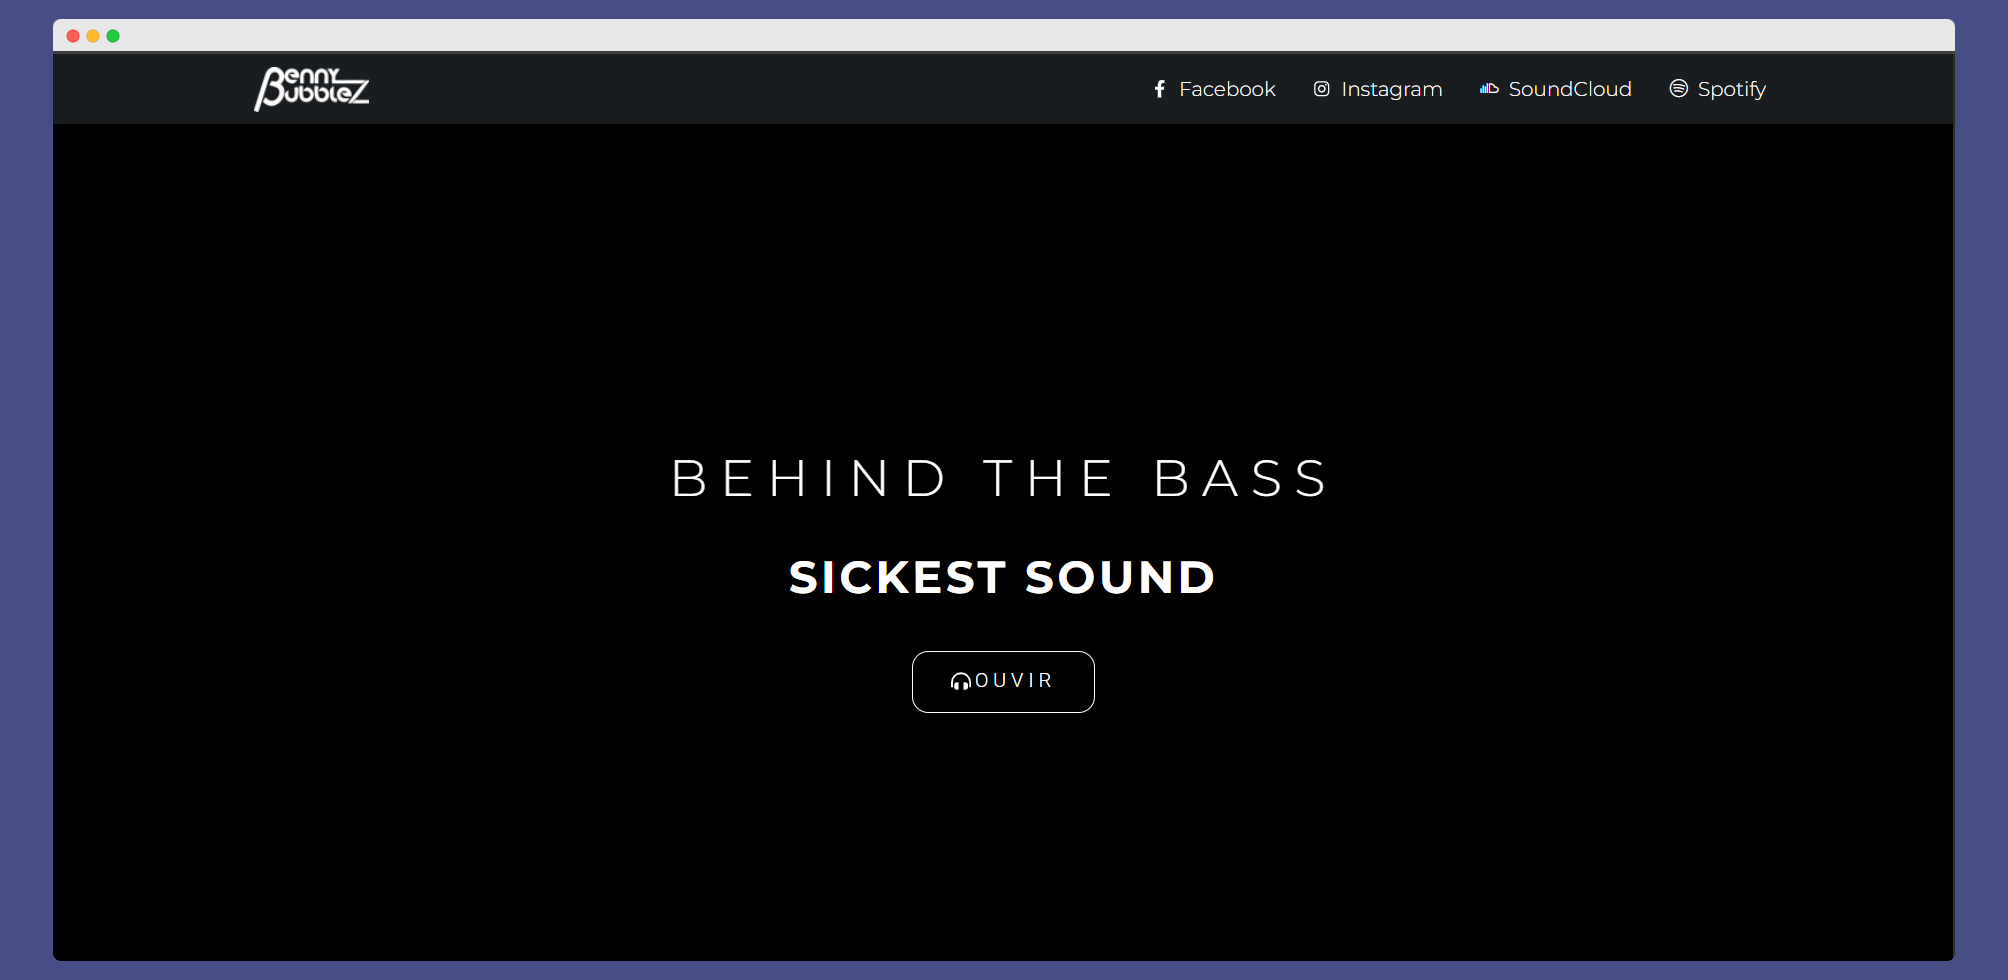
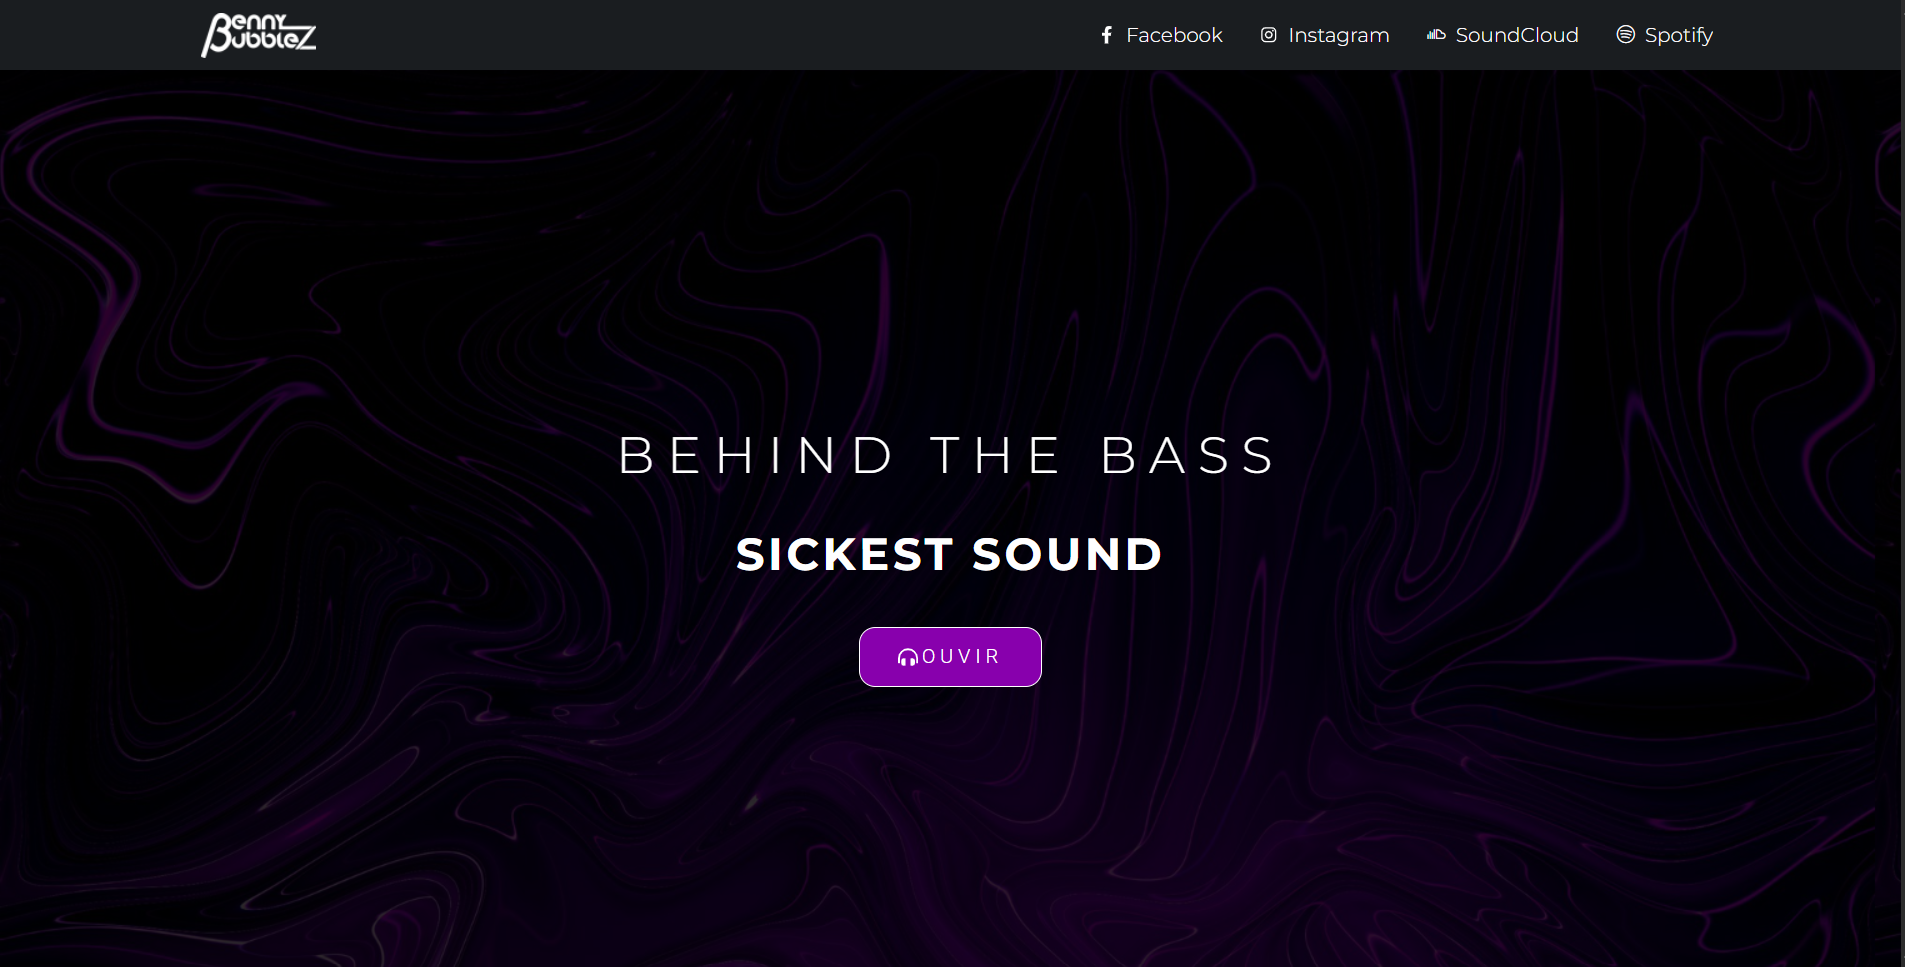
feat: enhance Projects section with carousel navigation and improved layout

diff --git a/src/components/sections/Projects.jsx b/src/components/sections/Projects.jsx
@@ -1,5 +1,5 @@
-import React, { useState } from 'react';
-import { Briefcase, Globe, Monitor, Smartphone, LayoutGrid, ArrowUpRight } from 'lucide-react';
+import React, { useState, useEffect } from 'react';
+import { Briefcase, Globe, Monitor, Smartphone, LayoutGrid, ArrowUpRight, ChevronLeft, ChevronRight } from 'lucide-react';
 import FadeIn from '../animations/FadeIn';
 import { useTranslation } from '../../contexts/LanguageContext';
 
@@ -87,65 +87,40 @@ const projects = [
     },
 ];
 
-const ProjectCard = ({ project, viewLabel, description }) => (
-    <div className="group flex flex-col bg-white border border-gray-200 rounded-2xl overflow-hidden hover:border-primary/40 hover:shadow-lg transition-all duration-300 shadow-sm">
-        <div className="relative h-52 overflow-hidden">
-            <img
-                src={project.image}
-                alt={project.title}
-                className="w-full h-full object-cover transition-transform duration-500 group-hover:scale-105"
-            />
-            <div className="absolute inset-0 bg-linear-to-t from-black/60 to-transparent" />
-            <span className="absolute top-3 left-3 text-xs bg-black/50 text-white/80 border border-white/20 px-2.5 py-1 rounded-full backdrop-blur-sm">
-                {project.category}
-            </span>
-        </div>
-
-        <div className="flex flex-col gap-3 p-5 flex-1">
-            <h3 className="text-lg font-semibold text-gray-900 group-hover:text-primary transition-colors duration-300">
-                {project.title}
-            </h3>
-
-            <p className="text-sm text-gray-500 leading-relaxed flex-1">
-                {description}
-            </p>
-
-            <div className="flex flex-wrap gap-1.5">
-                {project.tags.map(tag => (
-                    <span key={tag} className="text-xs bg-gray-50 text-gray-500 px-2 py-1 rounded-md border border-gray-200">
-                        {tag}
-                    </span>
-                ))}
-            </div>
-
-            {project.link && (
-                <div className="pt-2 border-t border-gray-100">
-                    <a
-                        href={project.link}
-                        target="_blank"
-                        rel="noopener noreferrer"
-                        className="inline-flex items-center gap-1.5 text-sm text-primary/80 hover:text-primary transition-colors duration-300 font-medium"
-                    >
-                        {viewLabel}
-                        <ArrowUpRight className="w-4 h-4 group-hover:translate-x-0.5 group-hover:-translate-y-0.5 transition-transform duration-300" />
-                    </a>
-                </div>
-            )}
-        </div>
-    </div>
-);
-
 const Projects = () => {
     const [activeCategory, setActiveCategory] = useState('All');
+    const [currentIndex, setCurrentIndex] = useState(0);
+    const [fading, setFading] = useState(false);
     const { t } = useTranslation();
 
     const filtered = activeCategory === 'All'
         ? projects
         : projects.filter(p => p.category === activeCategory);
 
+    const safeIndex = Math.min(currentIndex, Math.max(0, filtered.length - 1));
+    const project = filtered[safeIndex];
+
+    useEffect(() => {
+        setCurrentIndex(0);
+    }, [activeCategory]);
+
+    const navigate = (newIndex) => {
+        if (fading || filtered.length <= 1) return;
+        setFading(true);
+        setTimeout(() => {
+            setCurrentIndex(newIndex);
+            setFading(false);
+        }, 180);
+    };
+
+    const prev = () => navigate((safeIndex - 1 + filtered.length) % filtered.length);
+    const next = () => navigate((safeIndex + 1) % filtered.length);
+
+    if (!project) return null;
+
     return (
         <section id="projects" className="relative py-24 bg-white overflow-hidden">
-            <div className="relative z-10 max-w-7xl mx-auto px-4 sm:px-6 lg:px-8">
+            <div className="relative z-10 max-w-5xl mx-auto px-4 sm:px-6 lg:px-8">
 
                 {/* Header */}
                 <FadeIn delay={60}>
@@ -154,11 +129,9 @@ const Projects = () => {
                             <Briefcase className="w-4 h-4 text-primary" />
                             <span className="text-sm text-primary font-medium">{t.projects.badge}</span>
                         </div>
-
                         <h2 className="text-4xl lg:text-5xl font-normal text-gray-900 leading-tight">
                             {t.projects.heading}
                         </h2>
-
                         <p className="text-base text-gray-500 max-w-xl">
                             {t.projects.description}
                         </p>
@@ -189,20 +162,129 @@ const Projects = () => {
                     </div>
                 </FadeIn>
 
-                {/* Projects Grid */}
+                {/* Carousel */}
                 <FadeIn delay={200}>
-                    <div className="grid grid-cols-1 md:grid-cols-2 gap-6">
-                        {filtered.map(project => (
-                            <ProjectCard
-                                key={project.id}
-                                project={project}
-                                description={t.projects.descriptions[project.id]}
-                                viewLabel={t.projects.viewProject}
+
+                    {/* Main Card */}
+                    <div
+                        className={`grid grid-cols-1 md:grid-cols-2 rounded-2xl overflow-hidden border border-gray-200 shadow-sm transition-opacity duration-180 ${fading ? 'opacity-0' : 'opacity-100'}`}
+                        style={{ minHeight: '400px' }}
+                    >
+                        {/* Image side */}
+                        <div className="relative h-64 md:h-auto overflow-hidden">
+                            <img
+                                src={project.image}
+                                alt={project.title}
+                                className="w-full h-full object-cover"
                             />
+                            <div className="absolute inset-0 bg-linear-to-t from-black/60 via-black/10 to-transparent" />
+                            <span className="absolute top-4 left-4 text-xs bg-black/50 text-white/80 border border-white/20 px-3 py-1 rounded-full backdrop-blur-sm">
+                                {project.category}
+                            </span>
+                        </div>
+
+                        {/* Details side */}
+                        <div className="p-8 flex flex-col gap-5 bg-white">
+                            <div className="flex items-start justify-between gap-4">
+                                <h3 className="text-2xl font-semibold text-gray-900 leading-tight">
+                                    {project.title}
+                                </h3>
+                                <span className="text-xs text-gray-300 font-mono shrink-0 mt-1 select-none">
+                                    {String(safeIndex + 1).padStart(2, '0')}&nbsp;/&nbsp;{String(filtered.length).padStart(2, '0')}
+                                </span>
+                            </div>
+
+                            <p className="text-sm text-gray-500 leading-relaxed flex-1">
+                                {t.projects.descriptions[project.id]}
+                            </p>
+
+                            <div className="flex flex-wrap gap-2">
+                                {project.tags.map(tag => (
+                                    <span
+                                        key={tag}
+                                        className="text-xs bg-gray-50 text-gray-500 px-3 py-1 rounded-full border border-gray-200"
+                                    >
+                                        {tag}
+                                    </span>
+                                ))}
+                            </div>
+
+                            {project.link && (
+                                <a
+                                    href={project.link}
+                                    target="_blank"
+                                    rel="noopener noreferrer"
+                                    className="inline-flex items-center gap-1.5 text-sm font-medium text-primary/80 hover:text-primary transition-all duration-300 group w-fit pt-1 border-t border-gray-100"
+                                >
+                                    {t.projects.viewProject}
+                                    <ArrowUpRight className="w-4 h-4 group-hover:translate-x-0.5 group-hover:-translate-y-0.5 transition-transform duration-300" />
+                                </a>
+                            )}
+                        </div>
+                    </div>
+
+                    {/* Navigation */}
+                    <div className="flex items-center justify-between mt-6 px-1">
+
+                        <button
+                            onClick={prev}
+                            disabled={filtered.length <= 1}
+                            className="w-10 h-10 rounded-full border border-gray-200 bg-white flex items-center justify-center text-gray-400 hover:border-primary/40 hover:text-primary disabled:opacity-30 disabled:cursor-not-allowed transition-all duration-300"
+                            aria-label="Previous project"
+                        >
+                            <ChevronLeft className="w-5 h-5" />
+                        </button>
+
+                        {/* Dot indicators */}
+                        <div className="flex items-center gap-1.5">
+                            {filtered.map((_, i) => (
+                                <button
+                                    key={i}
+                                    onClick={() => navigate(i)}
+                                    aria-label={`Project ${i + 1}`}
+                                    className={`h-1.5 rounded-full transition-all duration-300 ${
+                                        i === safeIndex
+                                            ? 'w-6 bg-primary'
+                                            : 'w-1.5 bg-gray-300 hover:bg-gray-400'
+                                    }`}
+                                />
+                            ))}
+                        </div>
+
+                        <button
+                            onClick={next}
+                            disabled={filtered.length <= 1}
+                            className="w-10 h-10 rounded-full border border-gray-200 bg-white flex items-center justify-center text-gray-400 hover:border-primary/40 hover:text-primary disabled:opacity-30 disabled:cursor-not-allowed transition-all duration-300"
+                            aria-label="Next project"
+                        >
+                            <ChevronRight className="w-5 h-5" />
+                        </button>
+
+                    </div>
+
+                    {/* Thumbnail strip */}
+                    <div className="flex gap-2 mt-4 overflow-x-auto pb-1 scrollbar-hide">
+                        {filtered.map((p, i) => (
+                            <button
+                                key={p.id}
+                                onClick={() => navigate(i)}
+                                className={`shrink-0 w-16 h-10 rounded-lg overflow-hidden border-2 transition-all duration-300 ${
+                                    i === safeIndex
+                                        ? 'border-primary opacity-100'
+                                        : 'border-transparent opacity-40 hover:opacity-70'
+                                }`}
+                                aria-label={p.title}
+                            >
+                                <img
+                                    src={p.image}
+                                    alt={p.title}
+                                    className="w-full h-full object-cover"
+                                />
+                            </button>
                         ))}
                     </div>
-                </FadeIn>
 
+                </FadeIn>
             </div>
         </section>
     );
